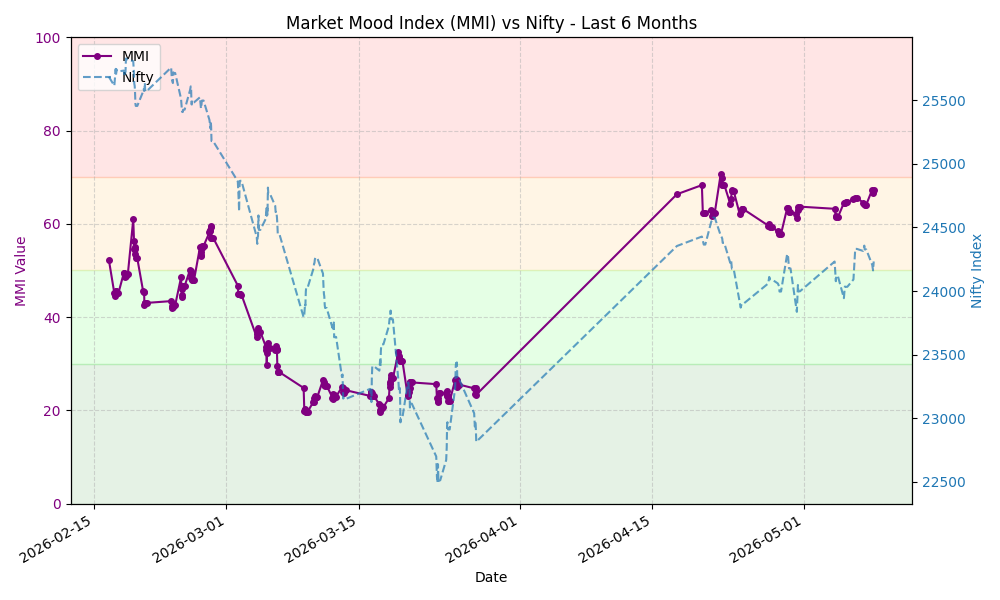
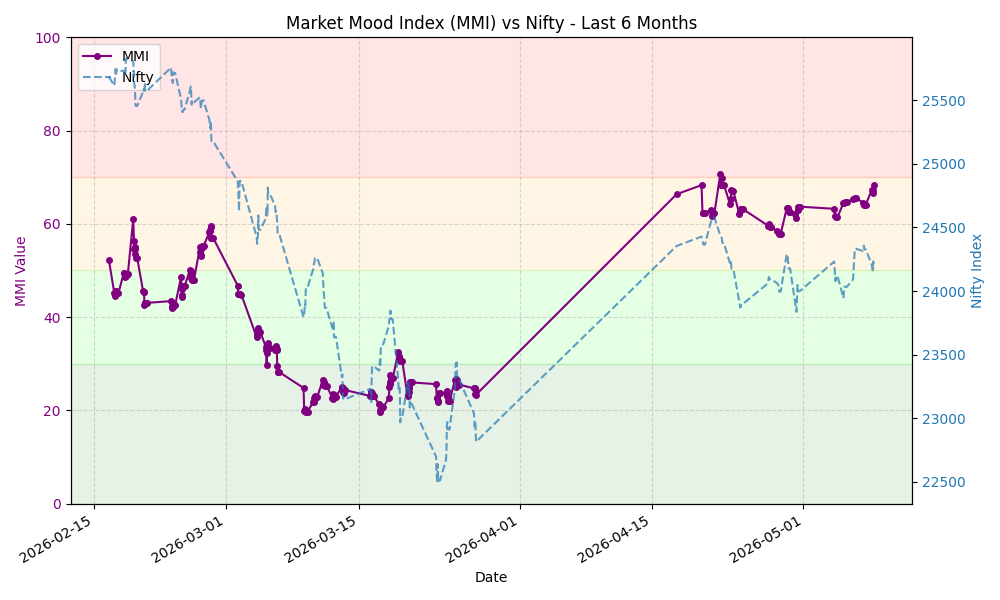
Update MMI data and chart

diff --git a/README.md b/README.md
@@ -7,8 +7,8 @@ This repository automatically fetches the MMI value, stores the history, and gen
 
 ## Latest MMI Value
 
-**67.31** - **Greed**
-<small>Last Updated: 2026-05-08 09:21 UTC</small>
+**68.27** - **Greed**
+<small>Last Updated: 2026-05-08 10:27 UTC</small>
 
 ## MMI Trend (Last 30 Days)
 